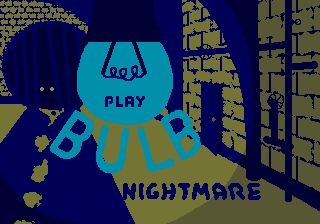
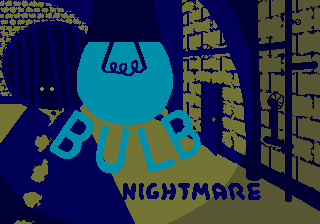
title screen working

Changed region(s): [[0.3125, 0.1875, 0.4688, 0.375], [0.3125, 0.4062, 0.4688, 0.5]]

diff --git a/src/main.c b/src/main.c
@@ -7,10 +7,11 @@
 u8 gRoom;		  // Sala atual
 u32 gFrames;	  // Frame counter
 u16 gInd_tileset; // Carrega dados do background
-Sprite *gButtonCred;
-Sprite *gButtonCtrl;
+Sprite *gButtonStart;
+Sprite *gButtonMenu;
 u16 curlInput = 0; // Estado atual do botão
 u16 prevInput;	   // Estado anterior
+u8 gMainMenuOptions;
 
 int main(bool resetType)
 {
@@ -39,15 +40,45 @@ int main(bool resetType)
 				PAL_setPalette(PAL0, img_bg.palette->data, DMA);
 				gInd_tileset += img_bg.tileset->numTile;
 
-				gButtonCtrl = SPR_addSprite(&button_ctrl, 207, 200, TILE_ATTR(PAL1, FALSE, FALSE, FALSE));
-				PAL_setPalette(PAL1, button_ctrl.palette->data, DMA);
-
-				gButtonCred = SPR_addSprite(&button_cred, 263, 200, TILE_ATTR(PAL2, FALSE, FALSE, FALSE));
-				PAL_setPalette(PAL2, button_cred.palette->data, DMA);
+				gButtonStart = SPR_addSprite(&button_start, 98, 88, TILE_ATTR(PAL1, FALSE, FALSE, FALSE));
+				PAL_setPalette(PAL1, button_start.palette->data, DMA);
 			}
-		}
+			curlInput = JOY_readJoypad(JOY_1);
 
-		curlInput = JOY_readJoypad(JOY_1);
+			if (((curlInput & BUTTON_START) && !(prevInput & BUTTON_START)))
+			{
+				gButtonMenu = SPR_addSprite(&buttons_menu, 98, 72, TILE_ATTR(PAL2, FALSE, FALSE, FALSE));
+				PAL_setPalette(PAL2, buttons_menu.palette->data, DMA);
+				SPR_setVisibility(gButtonStart, HIDDEN);
+				gMainMenuOptions = 0;
+			}
+			if (((curlInput & BUTTON_DOWN) && !(prevInput & BUTTON_DOWN)) && gMainMenuOptions == 0)
+			{
+				gMainMenuOptions = 1;
+				SPR_setAnim(gButtonMenu, gMainMenuOptions);
+				prevInput = curlInput;
+			}
+			if (((curlInput & BUTTON_DOWN) && !(prevInput & BUTTON_DOWN)) && gMainMenuOptions == 1)
+			{
+				gMainMenuOptions = 2;
+				SPR_setAnim(gButtonMenu, gMainMenuOptions);
+				prevInput = curlInput;
+			}
+			if (((curlInput & BUTTON_UP) && !(prevInput & BUTTON_UP)) && gMainMenuOptions == 2)
+			{
+				gMainMenuOptions = 1;
+				SPR_setAnim(gButtonMenu, gMainMenuOptions);
+				prevInput = curlInput;
+			}
+			if (((curlInput & BUTTON_UP) && !(prevInput & BUTTON_UP)) && gMainMenuOptions == 1)
+			{
+				gMainMenuOptions = 0;
+				SPR_setAnim(gButtonMenu, gMainMenuOptions);
+				prevInput = curlInput;
+			}
+
+			prevInput = curlInput;
+		}
 
 		if (gRoom == 2) //
 		{

diff --git a/res/sprites.h b/res/sprites.h
@@ -1,7 +1,7 @@
 #ifndef _RES_SPRITES_H_
 #define _RES_SPRITES_H_
 
-extern const SpriteDefinition button_cred;
-extern const SpriteDefinition button_ctrl;
+extern const SpriteDefinition buttons_menu;
+extern const SpriteDefinition button_start;
 
 #endif // _RES_SPRITES_H_
